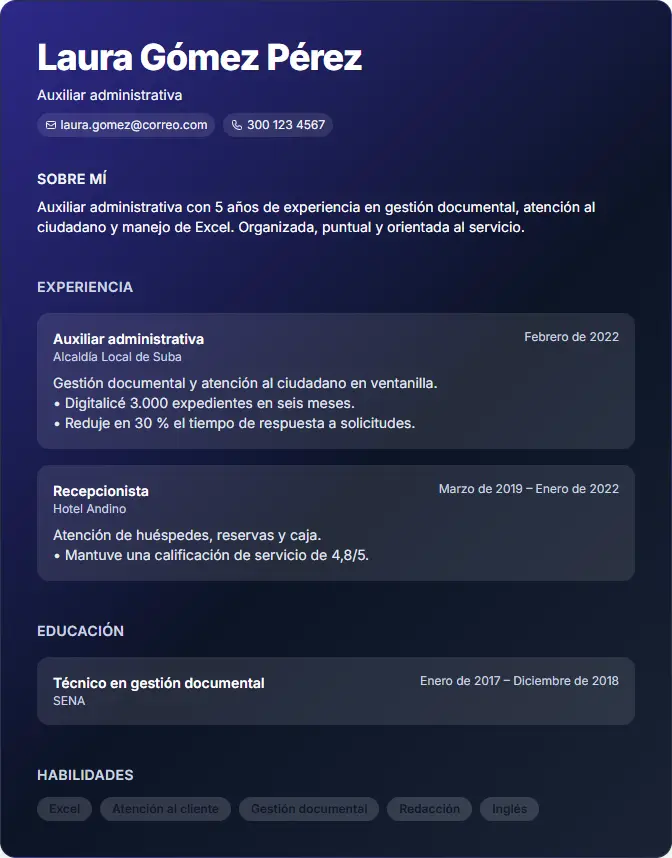
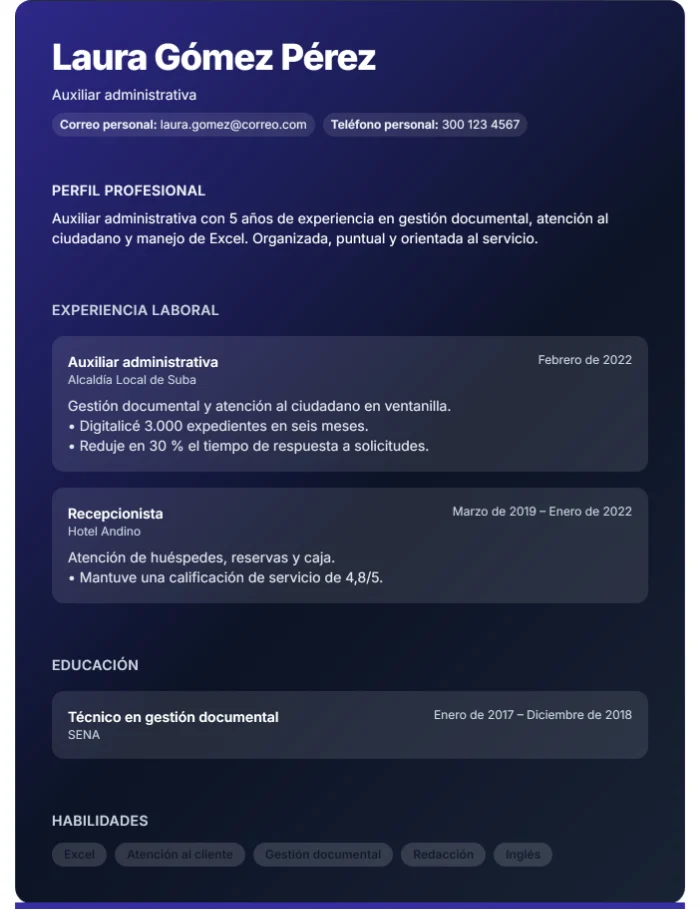
fix(seo): let Google read noindex on sign-in pages; 21-template gallery
- robots.txt no longer blocks /login, /register, /forgot-password,
  /reset-password, /verify-email and /auth: Google indexed them from links
  without reading their noindex (94 of 250 impressions). Private areas
  stay disallowed.
- /plantillas-hoja-de-vida/ lists the 21 templates in the editor's four
  groups, all ATS-readable, with regenerated previews (the old ones
  showed the pre-unification section titles; 8 were missing).
- scripts/template-previews.mjs regenerates the previews from the real
  templates (Playwright, WebP encoded in the browser, no new deps).
- Core test keeps the gallery in sync with the ProCV catalog and checks
  every template has a preview.

diff --git a/apps/core/src/content/formats.ts b/apps/core/src/content/formats.ts
@@ -15,26 +15,40 @@ export interface TemplateCard {
   key: string;
   name: string;
   description: string;
+  /** Kept for the cards: every template is ATS-readable (the PDF carries its text). */
   ats: boolean;
   photo: boolean;
-  group: "Formatos oficiales" | "Profesionales" | "Compatibles con ATS" | "Diseño";
+  group: "Clásicas y sencillas" | "Profesionales" | "Diseños visuales" | "Formatos oficiales";
 }
 
-/** Same keys as the ProCV template catalog (apps/procv/frontend/src/utils/templateCatalog.ts). */
+/**
+ * Same keys, names and groups as the ProCV catalog
+ * (apps/procv/frontend/src/utils/templateCatalog.ts; a test keeps them in
+ * sync). Preview images: apps/core/public/plantillas/<key>.webp, generated
+ * with apps/procv/frontend/scripts/template-previews.mjs.
+ */
 export const TEMPLATE_CARDS: TemplateCard[] = [
-  { key: "dafp", name: "Función Pública (DAFP)", group: "Formatos oficiales", ats: true, photo: false, description: "Estructura del Formato Único de Hoja de Vida para entidades públicas y contratistas del Estado." },
-  { key: "employment", name: "Formato 1003", group: "Formatos oficiales", ats: true, photo: true, description: "El formato clásico de solicitud de empleo con datos personales, estudios, experiencia y referencias." },
-  { key: "ats", name: "ATS Profesional", group: "Compatibles con ATS", ats: true, photo: true, description: "Una columna y títulos estándar: la opción más segura para portales de empleo y empresas grandes." },
-  { key: "minimal", name: "Minimalista", group: "Compatibles con ATS", ats: true, photo: false, description: "Limpia y directa, sin adornos. Ideal cuando quieres que el contenido hable por sí solo." },
-  { key: "compact", name: "Compacta", group: "Compatibles con ATS", ats: true, photo: false, description: "Aprovecha el espacio para que una trayectoria amplia quepa en una o dos páginas." },
-  { key: "classic", name: "Clásica", group: "Profesionales", ats: true, photo: false, description: "Tipografía con serifa y estilo sobrio, para sectores tradicionales como el jurídico o el financiero." },
-  { key: "corporate", name: "Profesional", group: "Profesionales", ats: true, photo: true, description: "Equilibrio entre diseño y lectura fácil, con espacio para foto y datos de contacto destacados." },
-  { key: "executive", name: "Ejecutiva", group: "Profesionales", ats: true, photo: true, description: "Encabezado en banda oscura para perfiles con experiencia y cargos de coordinación o dirección." },
+  { key: "minimal", name: "Minimalista", group: "Clásicas y sencillas", ats: true, photo: false, description: "Limpia y directa, sin adornos. Ideal cuando quieres que el contenido hable por sí solo." },
+  { key: "ats", name: "Estándar", group: "Clásicas y sencillas", ats: true, photo: true, description: "El formato clásico de procesador de texto: foto opcional, contacto en dos columnas y títulos en franja gris." },
+  { key: "cronologica", name: "Cronológica", group: "Clásicas y sencillas", ats: true, photo: true, description: "Fechas en su propia columna y experiencia de la más reciente a la más antigua: la más usada en Latinoamérica." },
+  { key: "harvard", name: "Harvard", group: "Clásicas y sencillas", ats: true, photo: false, description: "Académica y sobria, con tipografía con serifa y la educación primero. Ideal para estudiantes, docentes e investigadores." },
+  { key: "classic", name: "Clásica", group: "Clásicas y sencillas", ats: true, photo: false, description: "Tipografía con serifa y estilo sobrio, para sectores tradicionales como el jurídico o el financiero." },
+  { key: "compact", name: "Compacta", group: "Clásicas y sencillas", ats: true, photo: false, description: "Aprovecha el espacio para que una trayectoria amplia quepa en una o dos páginas." },
+  { key: "primer-empleo", name: "Primer empleo", group: "Clásicas y sencillas", ats: true, photo: true, description: "Pone estudios, habilidades e idiomas antes que la experiencia: pensada para tu primer trabajo o tus prácticas." },
+  { key: "competencias", name: "Por competencias", group: "Clásicas y sencillas", ats: true, photo: true, description: "Tus competencias clave primero, en un recuadro destacado. Útil al cambiar de sector o tras una pausa laboral." },
+  { key: "corporate", name: "Profesional", group: "Profesionales", ats: true, photo: true, description: "Equilibrio entre diseño y lectura fácil, con el perfil destacado y espacio para foto y contacto." },
+  { key: "moderna", name: "Moderna", group: "Profesionales", ats: true, photo: true, description: "Nombre grande y títulos con barra de color: actual sin perder sobriedad." },
+  { key: "elegante", name: "Elegante", group: "Profesionales", ats: true, photo: true, description: "Encabezado centrado y tipografía distinguida, para cargos de atención, ventas o dirección." },
+  { key: "europea", name: "Europea", group: "Profesionales", ats: true, photo: true, description: "Títulos en una columna a la izquierda y detalles a la derecha, al estilo de los formatos europeos." },
+  { key: "dos-columnas", name: "Dos columnas", group: "Profesionales", ats: true, photo: true, description: "Experiencia y educación a la izquierda; habilidades, idiomas y certificados en una columna lateral." },
   { key: "timeline", name: "Timeline", group: "Profesionales", ats: true, photo: false, description: "Muestra tu experiencia como una línea de tiempo, fácil de recorrer de un vistazo." },
-  { key: "developer", name: "Contraste", group: "Profesionales", ats: true, photo: true, description: "Fondo oscuro de alto contraste, pensado para perfiles digitales y de tecnología." },
-  { key: "extensa", name: "Extensa", group: "Diseño", ats: true, photo: true, description: "Más espacio para detalles: proyectos, logros y habilidades con niveles visuales." },
-  { key: "sidebar", name: "Panel lateral", group: "Diseño", ats: false, photo: true, description: "Columna lateral con foto y contacto. Muy visual, recomendable para enviar directamente a una persona." },
-  { key: "creative", name: "Creativa", group: "Diseño", ats: false, photo: true, description: "Fondo con degradado para perfiles creativos. Mejor para enviar por correo que para portales con filtro ATS." },
+  { key: "sidebar", name: "Panel lateral", group: "Diseños visuales", ats: true, photo: true, description: "Panel de color con foto y contacto, muy visual." },
+  { key: "executive", name: "Ejecutiva", group: "Diseños visuales", ats: true, photo: true, description: "Banda superior de color para perfiles con experiencia y cargos de coordinación o dirección." },
+  { key: "extensa", name: "Extensa", group: "Diseños visuales", ats: true, photo: true, description: "Encabezado centrado y títulos en etiquetas de color, con espacio para trayectorias largas." },
+  { key: "developer", name: "Contraste", group: "Diseños visuales", ats: true, photo: true, description: "Fondo oscuro de alto contraste, pensado para perfiles digitales y de tecnología." },
+  { key: "creative", name: "Creativa", group: "Diseños visuales", ats: true, photo: true, description: "Fondo con degradado para perfiles creativos y de comunicación." },
+  { key: "employment", name: "Formato 1003", group: "Formatos oficiales", ats: true, photo: true, description: "El formato clásico de solicitud de empleo con datos personales, estudios, experiencia y referencias." },
+  { key: "dafp", name: "Función Pública (DAFP)", group: "Formatos oficiales", ats: true, photo: false, description: "Formato Único de Hoja de Vida para entidades públicas y contratistas del Estado." },
 ];
 
 export const DAFP_FAQ: FaqItem[] = [

diff --git a/apps/core/tests/templateCards.test.ts b/apps/core/tests/templateCards.test.ts
@@ -1,0 +1,31 @@
+import { existsSync, readFileSync } from "node:fs";
+import { join } from "node:path";
+import { describe, expect, it } from "vitest";
+import { TEMPLATE_CARDS } from "../src/content/formats";
+import { CURATED_CV_TEMPLATES, CV_TEMPLATE_GROUPS } from "../../procv/frontend/src/utils/templateCatalog";
+
+describe("public template gallery", () => {
+  it("lists exactly the ProCV catalog, with the same names and groups", () => {
+    const groupLabel = Object.fromEntries(CV_TEMPLATE_GROUPS.map((group) => [group.id, group.label]));
+    expect(TEMPLATE_CARDS.map((card) => card.key).sort()).toEqual(CURATED_CV_TEMPLATES.map((template) => template.key).sort());
+    for (const template of CURATED_CV_TEMPLATES) {
+      const card = TEMPLATE_CARDS.find((item) => item.key === template.key)!;
+      expect(card.name).toBe(template.label);
+      expect(card.group).toBe(groupLabel[template.group]);
+      expect(card.photo).toBe(template.supportsPhoto);
+    }
+  });
+
+  it("has a preview image for every template", () => {
+    for (const card of TEMPLATE_CARDS) {
+      expect(existsSync(join(__dirname, "..", "public", "plantillas", `${card.key}.webp`)), card.key).toBe(true);
+    }
+  });
+
+  it("lets Google read the noindex of the sign-in screens", () => {
+    const script = readFileSync(join(__dirname, "..", "scripts", "prerender.mjs"), "utf8");
+    const block = script.slice(script.indexOf("const disallow = ["), script.indexOf("];", script.indexOf("const disallow = [")));
+    for (const path of ["/login", "/register", "/forgot-password"]) expect(block).not.toContain(`"${path}"`);
+    expect(block).toContain('"/admin"');
+  });
+});

diff --git a/apps/core/src/public/pages/FormatPages.tsx b/apps/core/src/public/pages/FormatPages.tsx
@@ -250,7 +250,7 @@ export function TemplatesGalleryPage() {
         <p className="text-sm font-semibold text-ui-accent">ProCV · {TEMPLATE_CARDS.length} plantillas gratis</p>
         <h1 className="mt-2 max-w-3xl text-3xl font-bold tracking-tight text-ui-text sm:text-4xl">Plantillas de hoja de vida gratis para descargar en Word y PDF</h1>
         <p className="mt-4 max-w-3xl text-lg leading-8 text-ui-muted">
-          Elige un diseño, llénalo en línea y descárgalo en PDF o Word. Sin registro y sin marcas de agua. {TEMPLATE_CARDS.filter((template) => template.ats).length} de las {TEMPLATE_CARDS.length} plantillas son compatibles con los filtros ATS que usan los portales de empleo.
+          Elige un diseño, llénalo en línea y descárgalo en PDF o Word. Sin registro y sin marcas de agua. Todas son compatibles con los filtros ATS que usan los portales de empleo: el PDF incluye tu texto real.
         </p>
       </section>
 
